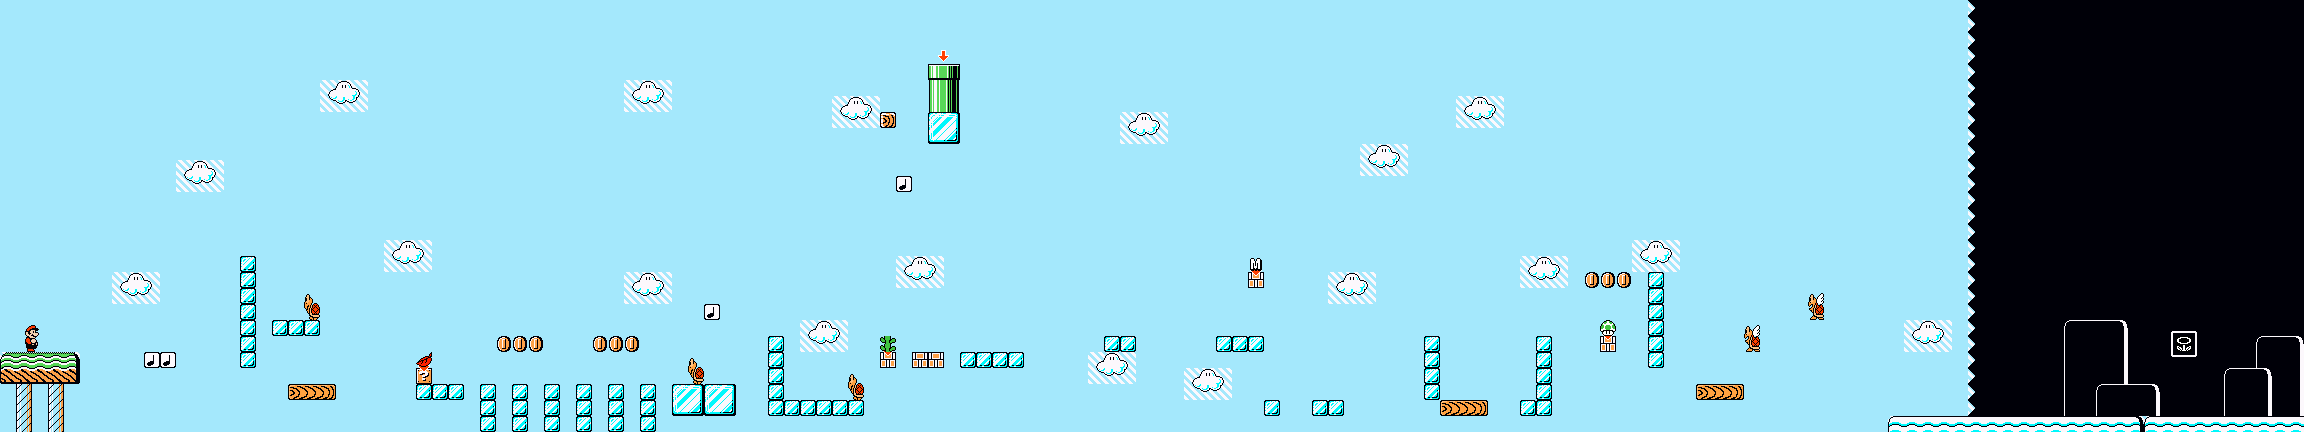
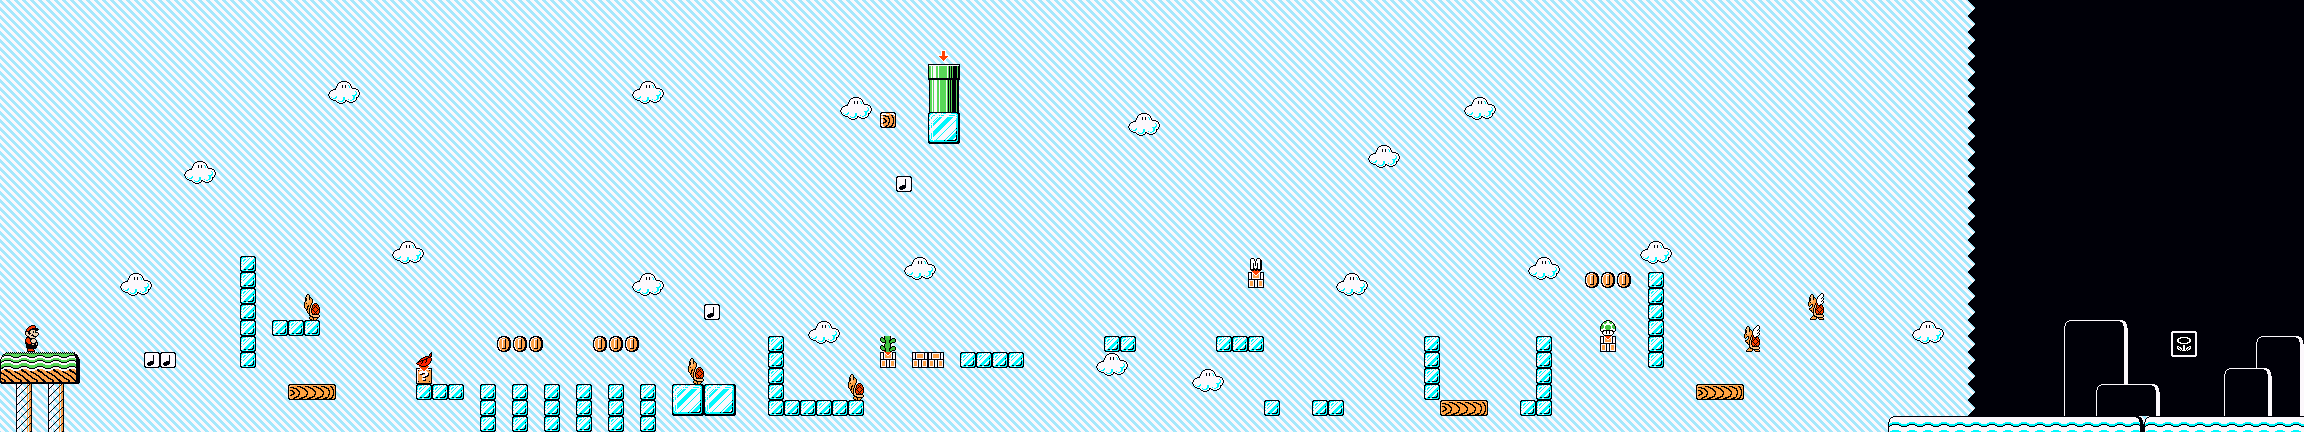
adds default background for ice levels

diff --git a/foundry/gui/LevelDrawer.py b/foundry/gui/LevelDrawer.py
@@ -15,7 +15,7 @@ from foundry.game.gfx.objects.LevelObject import GROUND, SCREEN_HEIGHT, SCREEN_W
 from foundry.game.gfx.objects.ObjectLike import EXPANDS_BOTH, EXPANDS_HORIZ, EXPANDS_VERT
 from foundry.game.level.Level import Level
 from smb3parse.levels import LEVEL_MAX_LENGTH
-from smb3parse.objects.object_set import DESERT_OBJECT_SET, DUNGEON_OBJECT_SET
+from smb3parse.objects.object_set import DESERT_OBJECT_SET, DUNGEON_OBJECT_SET, ICE_OBJECT_SET
 
 png = QImage(str(data_dir / "gfx.png"))
 png.convertTo(QImage.Format_RGB888)
@@ -110,6 +110,8 @@ class LevelDrawer:
             self._draw_desert_default_graphics(painter, level)
         elif level.object_set_number == DUNGEON_OBJECT_SET:
             self._draw_dungeon_default_graphics(painter, level)
+        elif level.object_set_number == ICE_OBJECT_SET:
+            self._draw_ice_default_graphics(painter, level)
 
         # painter.setPen(QPen(QColor(0x00, 0x00, 0x00, 0x80), width=1))
         # painter.setBrush(Qt.NoBrush)
@@ -173,6 +175,12 @@ class LevelDrawer:
 
         for x in range(level.width):
             floor_block.draw(painter, x * self.block_length, floor_level, self.block_length)
+
+    def _draw_ice_default_graphics(self, painter: QPainter, level: Level):
+        bg_block = _block_from_index(0x80, level)
+
+        for x, y in product(range(level.width), range(level.height)):
+            bg_block.draw(painter, x * self.block_length, y * self.block_length, self.block_length)
 
     def _draw_objects(self, painter: QPainter, level: Level):
         for level_object in level.get_all_objects():
